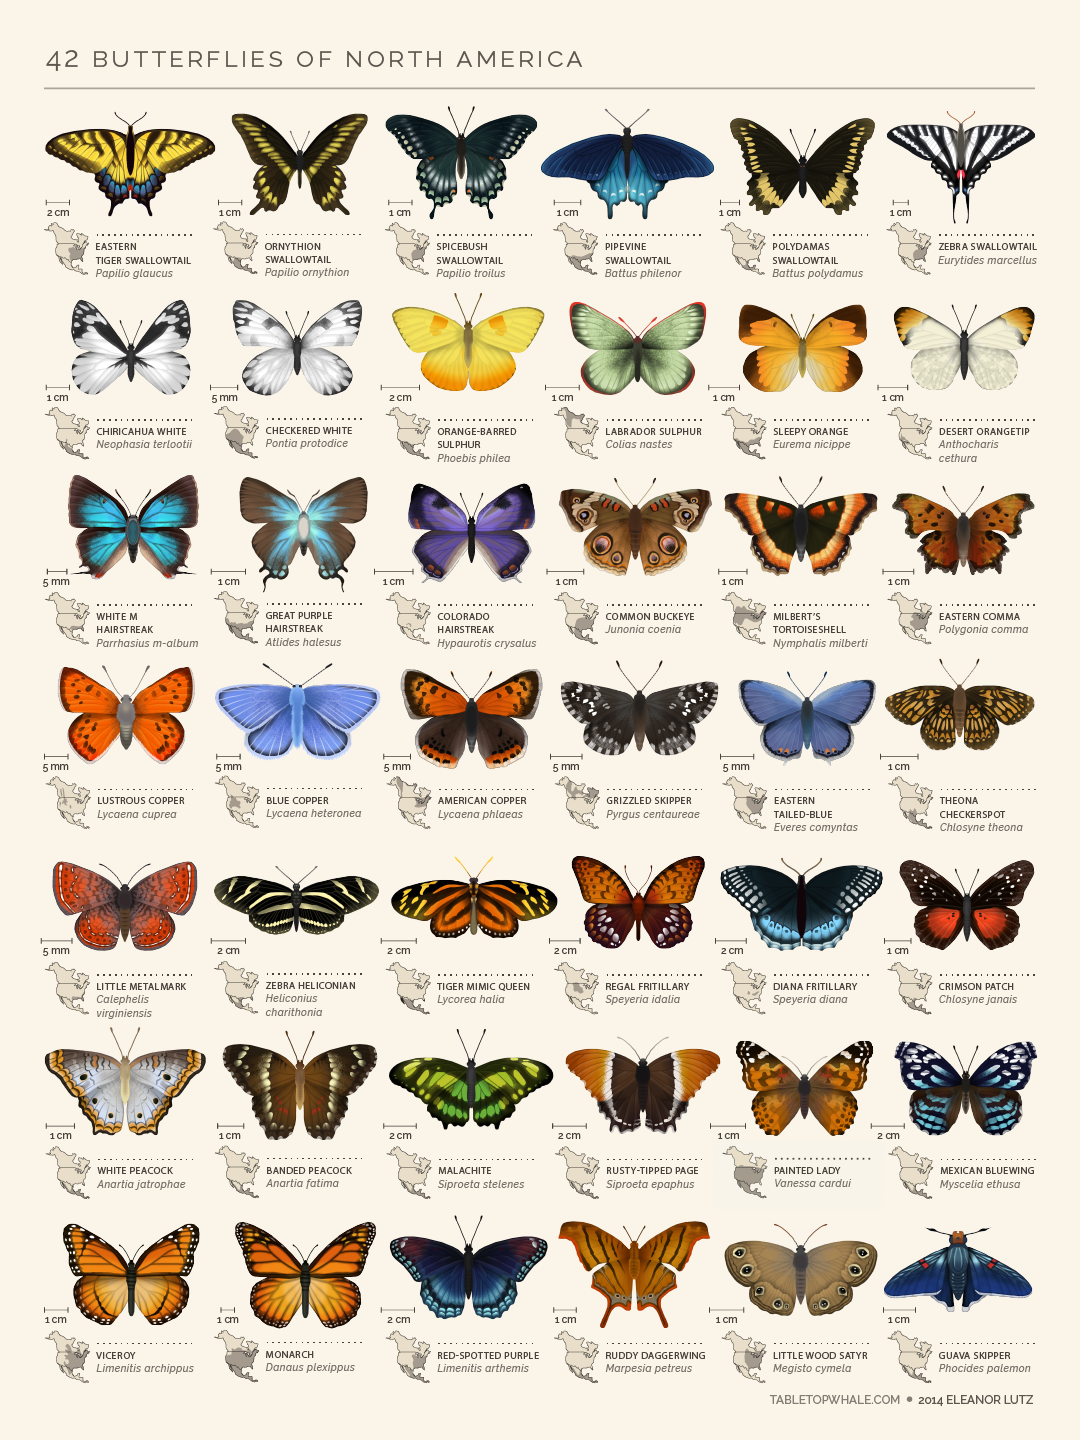
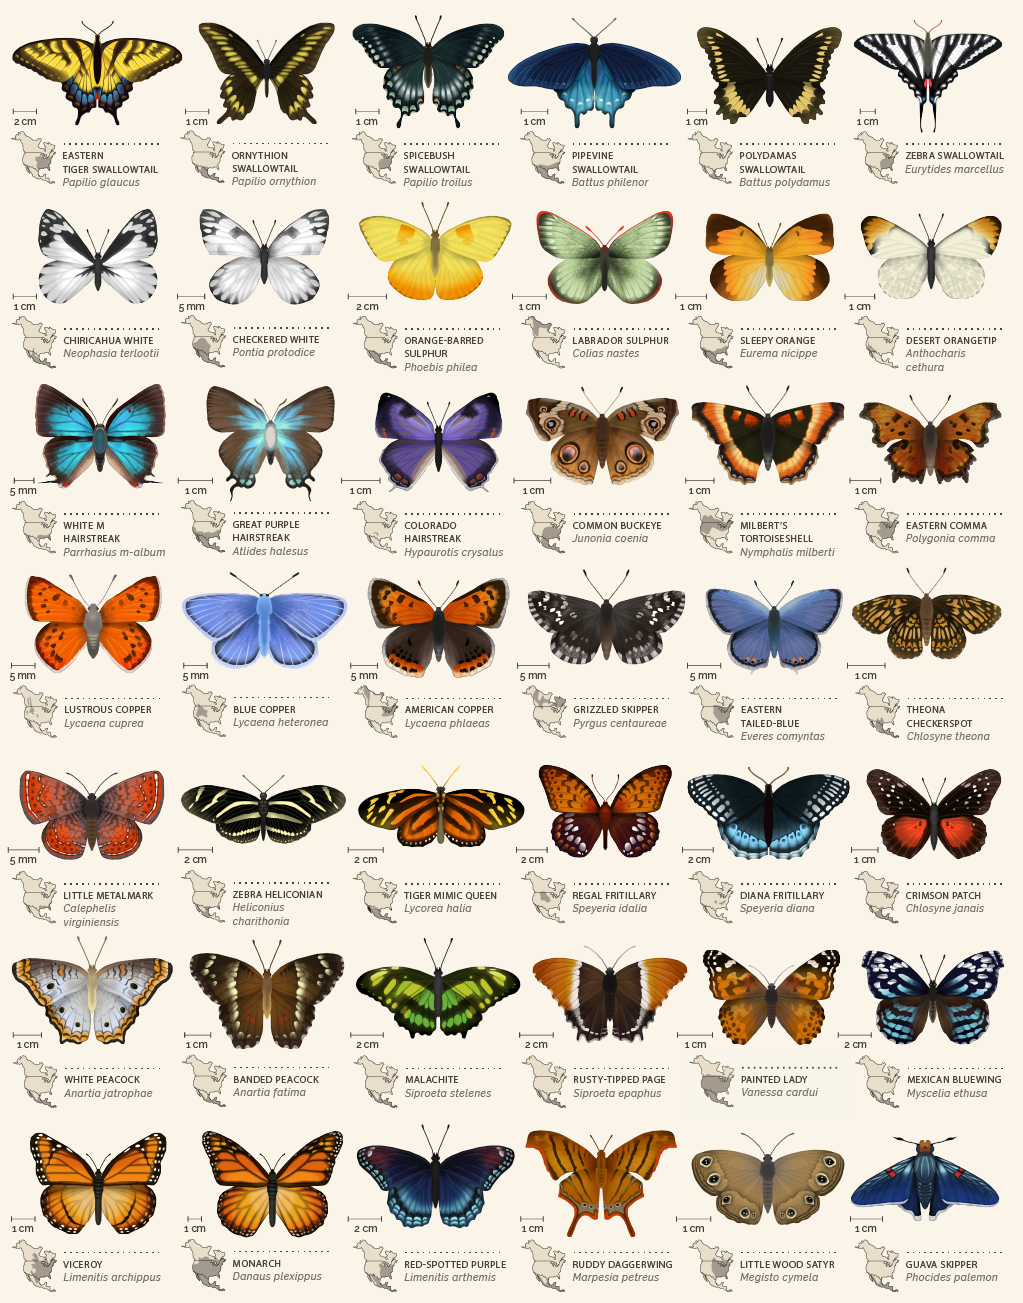
Butterflies highlightable

diff --git a/HTML/Butterflies.html b/HTML/Butterflies.html
@@ -7,15 +7,45 @@
     <link rel="stylesheet" type="text/css" href="css/font.css">
     <link rel="stylesheet" type="text/css" href="css/normalize.css">
     <link rel="stylesheet" type="text/css" href="css/main.css">
+    <script src="js/jquery.3.1.1.min.js"></script>
+    <script src="js/Utilities/svg-utils.js"></script>
     <script src="js/ktane-utils.js"></script>
+    <script>
+    $(function() {
+        let grid = $(".gridholder");
+        let svg = $('<svg viewbox="0 0 600 800">').appendTo(grid);
+
+        let rows = 7;
+        let cols = 6;
+        let h = 108.4;
+        let w = 99.8;
+        for (let r = 0; r < rows; r++) {
+            for (let c = 0; c < cols; c++) {
+                let cell = makeSvgElem("rect", {
+                    class: "highlightable", x:(3 + c*w), y:(4 + r*h),
+                    width:w, height:h, fill:"transparent"
+                });
+                svg.append(cell);
+            }
+        }
+        svg.click(function() {
+            window.open("img/Butterflies/Chart.png", "_blank");
+        });
+    });
+    </script>
     <style>
         table {
             margin: 1em auto;
         }
-        .img-chart {
-            display: block;
-            width: 89%;
+        .gridholder {
+            position: relative;
+            width: 92%;
             margin: 0 auto;
+        }
+        .gridholder img, .gridholder svg {
+            cursor: pointer;
+            position: absolute;
+            width: 100%;
         }
         .page-content {
             font-size: .9em;
@@ -36,7 +66,7 @@
 
                 <p>The module has 6 butterflies from the chart below.</p>
                 <p>If the last digit of the serial number is odd, press the butterflies in alphabetical order of their common name. If it is even, press the butterflies in alphabetical order of their scientific name.</p>
-                <p style='text-align: center'><a href='img/Butterflies/Chart.png'><img class="img-chart" src="img/Butterflies/Chart.png" style='width: 15.5cm'/></a></p>
+                <div class="gridholder"><img src="img/Butterflies/Chart.png"></div>
             </div>
             <div class="page-footer relative-footer">Page 1 of 1</div>
         </div>
